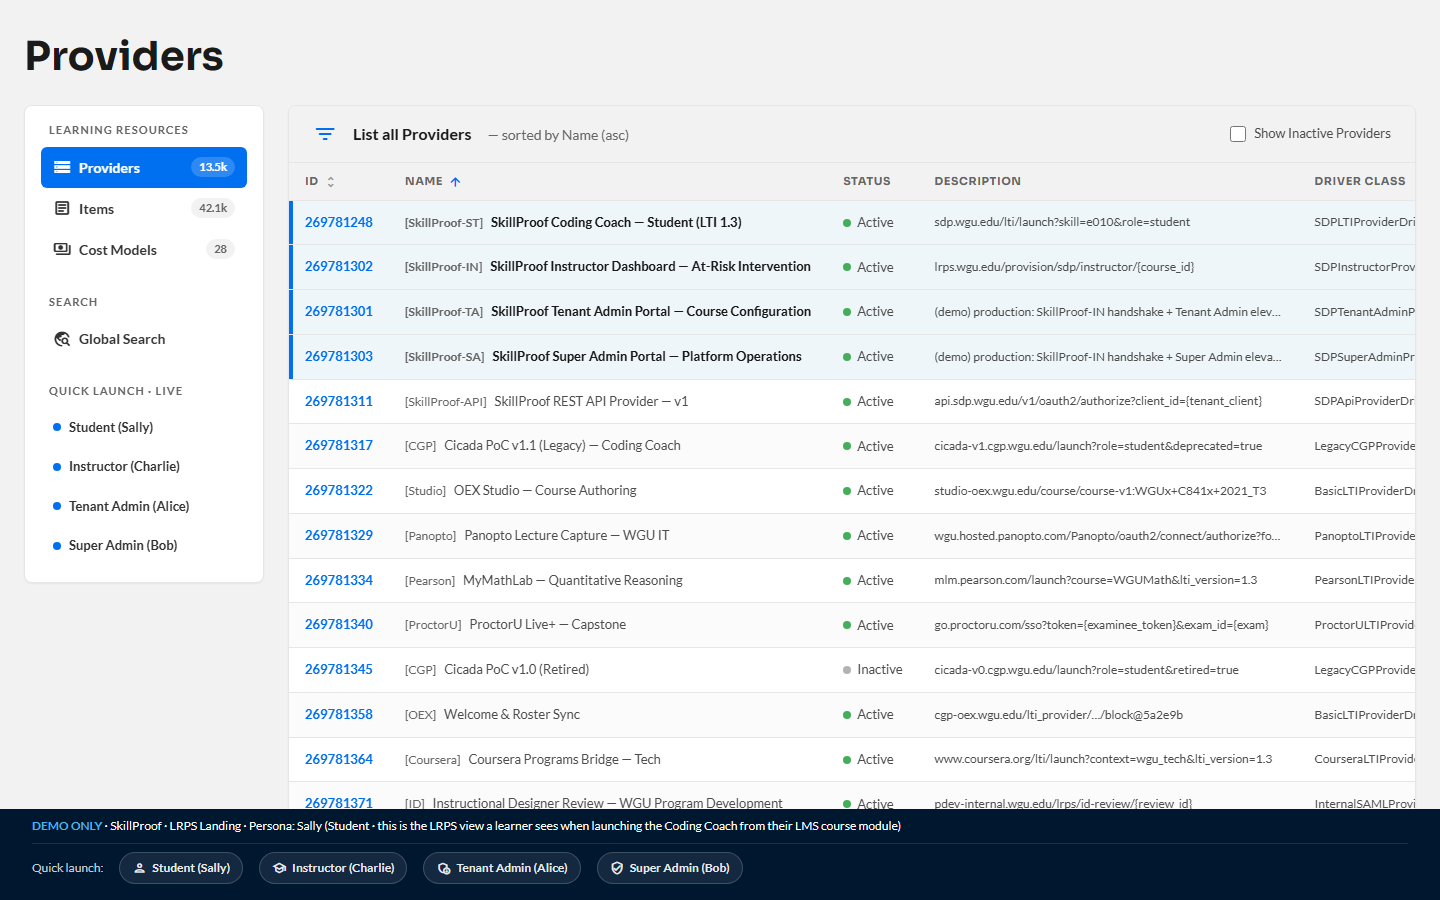
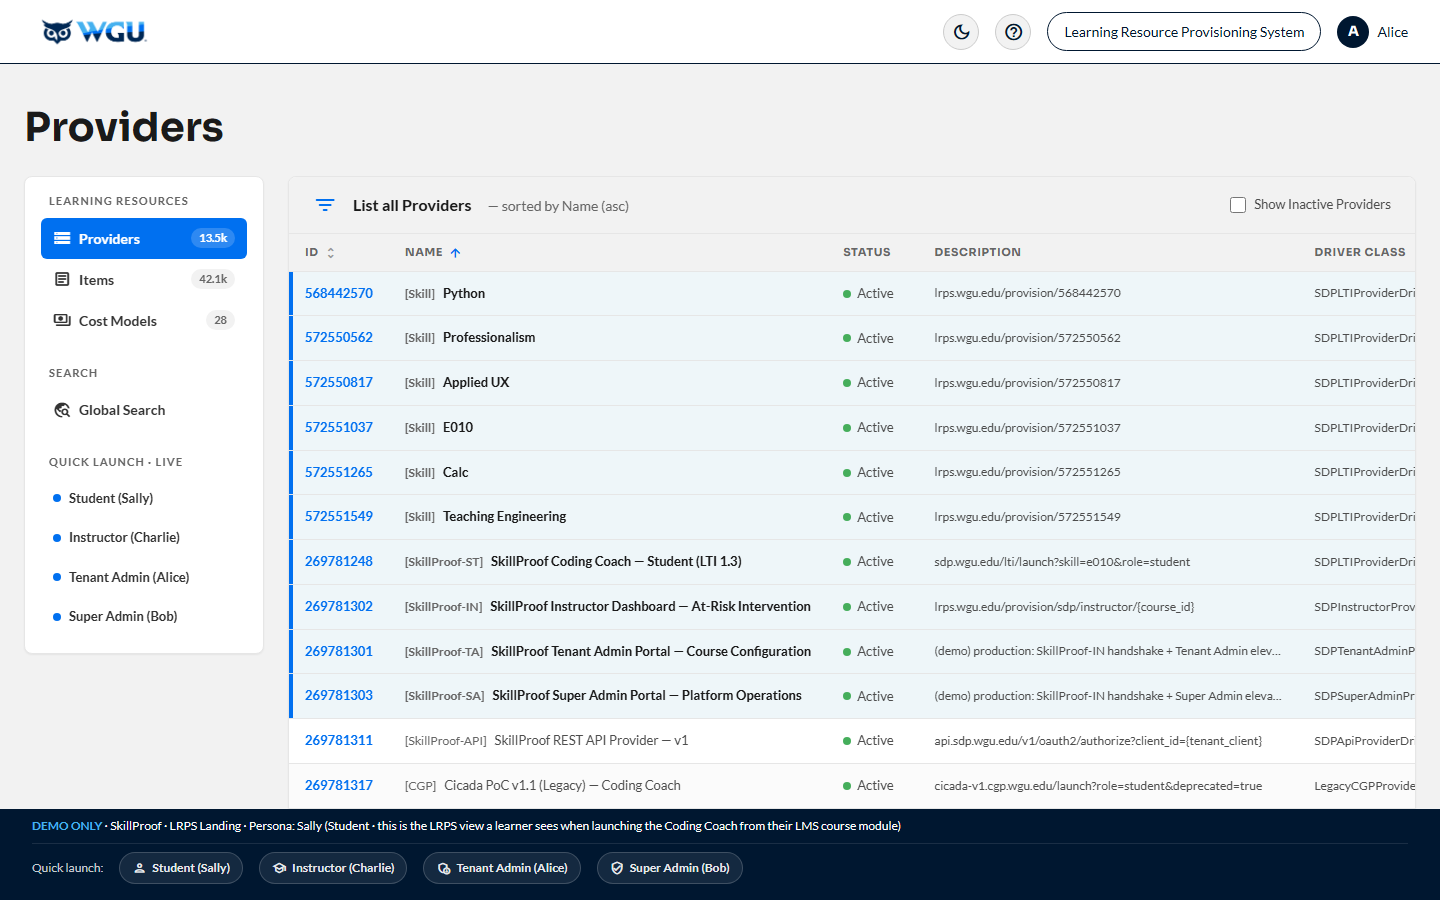
v4.161: regenerate landing hero to lead with the 6 live Skill rows
Hero scroll now starts at the top of the Providers table so the six
deployed LRPS skill rows lead the shot (was scrolled to the Student row).

diff --git a/capture_screens.py b/capture_screens.py
@@ -84,14 +84,10 @@ async def capture_portal(page, portal, theme):
         # land in the hero shot (the alphabetically-sorted OEX rows above add
         # no value to the hero).
         if portal["singlePage"] == "landing":
+            # Hero (v4.161): capture from the top so the Providers table header
+            # and the six live Skill launch rows lead the shot.
             await page.evaluate(
-                "(() => {"
-                " const row = document.querySelector('tr.live[data-launch=\"student/\"]');"
-                " if (row) {"
-                "   const rect = row.getBoundingClientRect();"
-                "   window.scrollTo({top: window.scrollY + rect.top - 200, behavior: 'instant'});"
-                " }"
-                "})()"
+                "window.scrollTo({top: 0, behavior: 'instant'})"
             )
         await page.wait_for_timeout(300)
         if portal["singlePage"] == "landing":